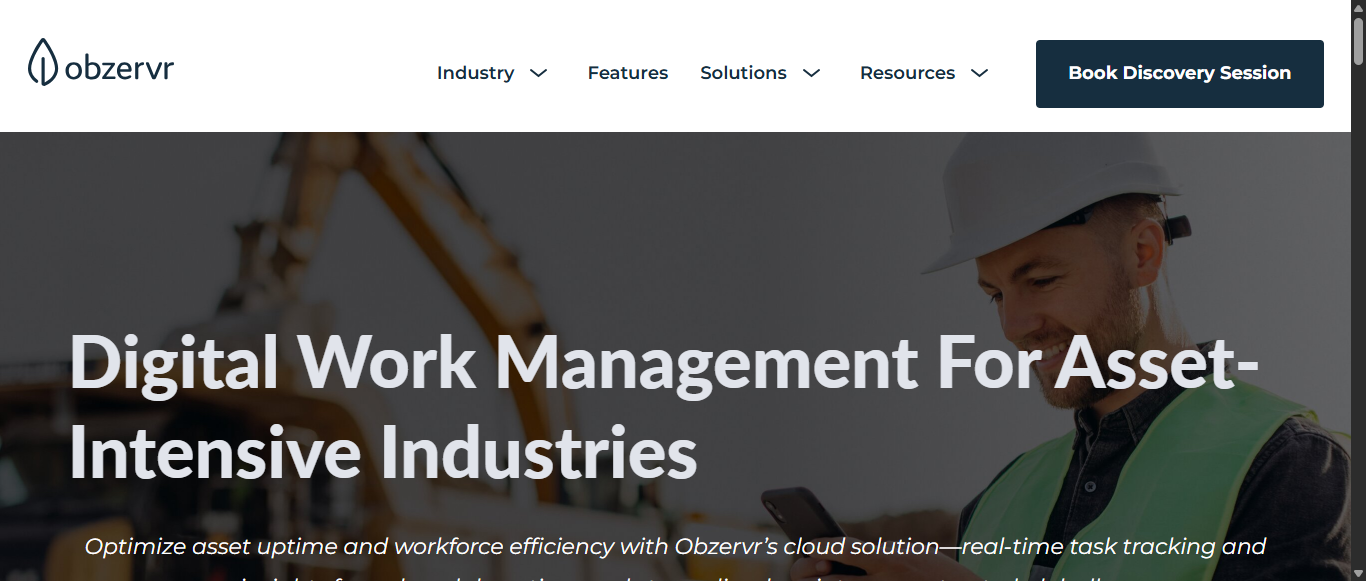
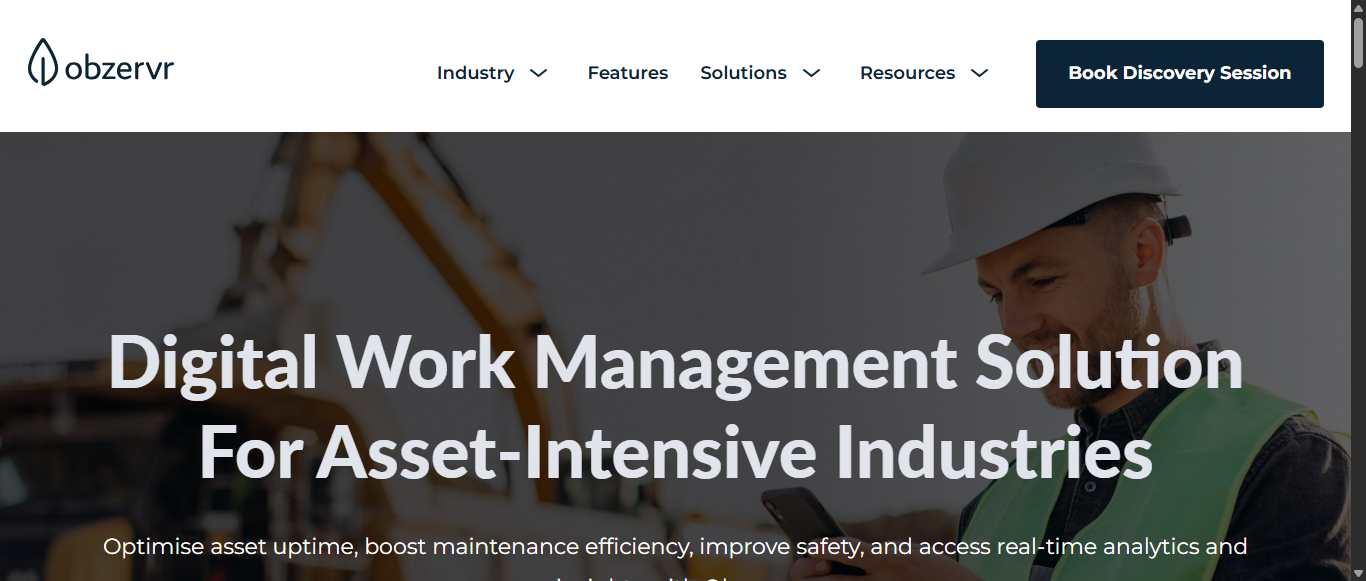
updated

diff --git a/observr_pom/test-output/index.html b/observr_pom/test-output/index.html
@@ -50,7 +50,7 @@
               <ul>
                 <li>
                   <a href="#" panel-name="test-xml-Default_suite" class="navigator-link ">
-                    <span>C:\Users\padal\AppData\Local\Temp\testng-eclipse--1256977675\testng-customsuite.xml</span>
+                    <span>C:\Users\padal\AppData\Local\Temp\testng-eclipse--429253357\testng-customsuite.xml</span>
                   </a> <!-- navigator-link  -->
                 </li>
                 <li>
@@ -208,7 +208,7 @@
         </div> <!-- panel Default_suite -->
         <div panel-name="test-xml-Default_suite" class="panel">
           <div class="main-panel-header rounded-window-top">
-            <span class="header-content">C:\Users\padal\AppData\Local\Temp\testng-eclipse--1256977675\testng-customsuite.xml</span>
+            <span class="header-content">C:\Users\padal\AppData\Local\Temp\testng-eclipse--429253357\testng-customsuite.xml</span>
           </div> <!-- main-panel-header rounded-window-top -->
           <div class="main-panel-content rounded-window-bottom">
             <pre>
@@ -261,36 +261,36 @@ data.addRows(7);
 data.setCell(0, 0, 0)
 data.setCell(0, 1, 'verifyscreenshot_maintext')
 data.setCell(0, 2, 'observr_pom.TestVerification')
-data.setCell(0, 3, 338);
+data.setCell(0, 3, 496);
 data.setCell(1, 0, 1)
-data.setCell(1, 1, 'verifyvideobtn_loadmorebtn_booksession')
+data.setCell(1, 1, 'others')
 data.setCell(1, 2, 'observr_pom.TestVerification')
-data.setCell(1, 3, 233);
+data.setCell(1, 3, 483);
 data.setCell(2, 0, 2)
-data.setCell(2, 1, 'others')
+data.setCell(2, 1, 'verifyvideobtn_loadmorebtn_booksession')
 data.setCell(2, 2, 'observr_pom.TestVerification')
-data.setCell(2, 3, 202);
+data.setCell(2, 3, 463);
 data.setCell(3, 0, 3)
 data.setCell(3, 1, 'solutions')
 data.setCell(3, 2, 'observr_pom.TestVerification')
-data.setCell(3, 3, 117);
+data.setCell(3, 3, 236);
 data.setCell(4, 0, 4)
 data.setCell(4, 1, 'industry')
 data.setCell(4, 2, 'observr_pom.TestVerification')
-data.setCell(4, 3, 113);
+data.setCell(4, 3, 194);
 data.setCell(5, 0, 5)
 data.setCell(5, 1, 'product')
 data.setCell(5, 2, 'observr_pom.TestVerification')
-data.setCell(5, 3, 101);
+data.setCell(5, 3, 167);
 data.setCell(6, 0, 6)
 data.setCell(6, 1, 'verifyTitleAndLogo')
 data.setCell(6, 2, 'observr_pom.TestVerification')
-data.setCell(6, 3, 86);
+data.setCell(6, 3, 149);
 window.suiteTableData['Default_suite']= { tableData: data, tableDiv: 'times-div-Default_suite'}
 return data;
 }
               </script>
-              <span class="suite-total-time">Total running time: 1 seconds</span>
+              <span class="suite-total-time">Total running time: 2 seconds</span>
               <div id="times-div-Default_suite">
               </div> <!-- times-div-Default_suite -->
             </div> <!-- times-div -->
@@ -323,63 +323,63 @@ return data;
               </div> <!-- configuration-class before -->
               <div class="configuration-method before">
                 <span class="method-name">navigateToURL</span>
-                <span class="method-start">4583 ms</span>
+                <span class="method-start">3786 ms</span>
               </div> <!-- configuration-method before -->
               <div class="test-method">
                 <span class="method-name">verifyTitleAndLogo</span>
-                <span class="method-start">8727 ms</span>
+                <span class="method-start">6697 ms</span>
               </div> <!-- test-method -->
               <div class="configuration-method before">
                 <span class="method-name">navigateToURL</span>
-                <span class="method-start">8822 ms</span>
+                <span class="method-start">6854 ms</span>
               </div> <!-- configuration-method before -->
               <div class="test-method">
                 <span class="method-name">verifyscreenshot_maintext</span>
-                <span class="method-start">9350 ms</span>
+                <span class="method-start">7724 ms</span>
               </div> <!-- test-method -->
               <div class="configuration-method before">
                 <span class="method-name">navigateToURL</span>
-                <span class="method-start">9690 ms</span>
+                <span class="method-start">8224 ms</span>
               </div> <!-- configuration-method before -->
               <div class="test-method">
                 <span class="method-name">verifyvideobtn_loadmorebtn_booksession</span>
-                <span class="method-start">10158 ms</span>
+                <span class="method-start">9103 ms</span>
               </div> <!-- test-method -->
               <div class="configuration-method before">
                 <span class="method-name">navigateToURL</span>
-                <span class="method-start">10391 ms</span>
+                <span class="method-start">9570 ms</span>
               </div> <!-- configuration-method before -->
               <div class="test-method">
                 <span class="method-name">industry</span>
-                <span class="method-start">11013 ms</span>
+                <span class="method-start">10235 ms</span>
               </div> <!-- test-method -->
               <div class="configuration-method before">
                 <span class="method-name">navigateToURL</span>
-                <span class="method-start">11128 ms</span>
+                <span class="method-start">10430 ms</span>
               </div> <!-- configuration-method before -->
               <div class="test-method">
                 <span class="method-name">solutions</span>
-                <span class="method-start">11720 ms</span>
+                <span class="method-start">11139 ms</span>
               </div> <!-- test-method -->
               <div class="configuration-method before">
                 <span class="method-name">navigateToURL</span>
-                <span class="method-start">11838 ms</span>
+                <span class="method-start">11377 ms</span>
               </div> <!-- configuration-method before -->
               <div class="test-method">
                 <span class="method-name">product</span>
-                <span class="method-start">12330 ms</span>
+                <span class="method-start">12067 ms</span>
               </div> <!-- test-method -->
               <div class="configuration-method before">
                 <span class="method-name">navigateToURL</span>
-                <span class="method-start">12433 ms</span>
+                <span class="method-start">12237 ms</span>
               </div> <!-- configuration-method before -->
               <div class="test-method">
                 <span class="method-name">others</span>
-                <span class="method-start">12840 ms</span>
+                <span class="method-start">12960 ms</span>
               </div> <!-- test-method -->
               <div class="configuration-class after">
                 <span class="method-name">quitbrowser</span>
-                <span class="method-start">13044 ms</span>
+                <span class="method-start">13443 ms</span>
               </div> <!-- configuration-class after -->
           </div> <!-- main-panel-content rounded-window-bottom -->
         </div> <!-- panel -->

diff --git a/observr_pom/test-output/emailable-report.html b/observr_pom/test-output/emailable-report.html
@@ -9,9 +9,9 @@
 <table>
 <tr><th>Test</th><th># Passed</th><th># Skipped</th><th># Retried</th><th># Failed</th><th>Time (ms)</th><th>Included Groups</th><th>Excluded Groups</th></tr>
 <tr><th colspan="8">Default suite</th></tr>
-<tr><td><a href="#t0">Default test</a></td><td class="num">7</td><td class="num">0</td><td class="num">0</td><td class="num">0</td><td class="num">13,757</td><td></td><td></td></tr>
+<tr><td><a href="#t0">Default test</a></td><td class="num">7</td><td class="num">0</td><td class="num">0</td><td class="num">0</td><td class="num">14,281</td><td></td><td></td></tr>
 </table>
-<table id='summary'><thead><tr><th>Class</th><th>Method</th><th>Start</th><th>Time (ms)</th></tr></thead><tbody><tr><th colspan="4">Default suite</th></tr></tbody><tbody id="t0"><tr><th colspan="4">Default test &#8212; passed</th></tr><tr class="passedeven"><td rowspan="7">observr_pom.TestVerification</td><td><a href="#m0">industry</a></td><td rowspan="1">1747644669345</td><td rowspan="1">113</td></tr><tr class="passedeven"><td><a href="#m1">others</a></td><td rowspan="1">1747644671172</td><td rowspan="1">202</td></tr><tr class="passedeven"><td><a href="#m2">product</a></td><td rowspan="1">1747644670662</td><td rowspan="1">101</td></tr><tr class="passedeven"><td><a href="#m3">solutions</a></td><td rowspan="1">1747644670052</td><td rowspan="1">117</td></tr><tr class="passedeven"><td><a href="#m4">verifyTitleAndLogo</a></td><td rowspan="1">1747644667059</td><td rowspan="1">86</td></tr><tr class="passedeven"><td><a href="#m5">verifyscreenshot_maintext</a></td><td rowspan="1">1747644667682</td><td rowspan="1">338</td></tr><tr class="passedeven"><td><a href="#m6">verifyvideobtn_loadmorebtn_booksession</a></td><td rowspan="1">1747644668490</td><td rowspan="1">233</td></tr></tbody>
+<table id='summary'><thead><tr><th>Class</th><th>Method</th><th>Start</th><th>Time (ms)</th></tr></thead><tbody><tr><th colspan="4">Default suite</th></tr></tbody><tbody id="t0"><tr><th colspan="4">Default test &#8212; passed</th></tr><tr class="passedeven"><td rowspan="7">observr_pom.TestVerification</td><td><a href="#m0">industry</a></td><td rowspan="1">1747905280378</td><td rowspan="1">194</td></tr><tr class="passedeven"><td><a href="#m1">others</a></td><td rowspan="1">1747905283103</td><td rowspan="1">483</td></tr><tr class="passedeven"><td><a href="#m2">product</a></td><td rowspan="1">1747905282210</td><td rowspan="1">167</td></tr><tr class="passedeven"><td><a href="#m3">solutions</a></td><td rowspan="1">1747905281282</td><td rowspan="1">236</td></tr><tr class="passedeven"><td><a href="#m4">verifyTitleAndLogo</a></td><td rowspan="1">1747905276840</td><td rowspan="1">149</td></tr><tr class="passedeven"><td><a href="#m5">verifyscreenshot_maintext</a></td><td rowspan="1">1747905277867</td><td rowspan="1">496</td></tr><tr class="passedeven"><td><a href="#m6">verifyvideobtn_loadmorebtn_booksession</a></td><td rowspan="1">1747905279246</td><td rowspan="1">463</td></tr></tbody>
 </table>
 <h2>Default test</h2><h3 id="m0">observr_pom.TestVerification#industry</h3><table class="result"><tr><th class="invisible"/></tr></table><p class="totop"><a href="#summary">back to summary</a></p>
 <h3 id="m1">observr_pom.TestVerification#others</h3><table class="result"><tr><th class="invisible"/></tr></table><p class="totop"><a href="#summary">back to summary</a></p>

diff --git a/observr_pom/test-output/Default suite/Default test.html b/observr_pom/test-output/Default suite/Default test.html
@@ -57,9 +57,9 @@ function toggleAllBoxes() {
 <tr>
 <td>Tests passed/Failed/Skipped:</td><td>7/0/0</td>
 </tr><tr>
-<td>Started on:</td><td>Mon May 19 14:20:58 IST 2025</td>
+<td>Started on:</td><td>Thu May 22 14:44:30 IST 2025</td>
 </tr>
-<tr><td>Total time:</td><td>13 seconds (13757 ms)</td>
+<tr><td>Total time:</td><td>14 seconds (14281 ms)</td>
 </tr><tr>
 <td>Included groups:</td><td></td>
 </tr><tr>
@@ -76,22 +76,12 @@ function toggleAllBoxes() {
 <td><b>Instance</b></td>
 </tr>
 <tr>
-<td title='observr_pom.TestVerification.verifyTitleAndLogo()'><b>verifyTitleAndLogo</b><br>Test class: observr_pom.TestVerification</td>
-<td></td>
-<td>0</td>
-<td>observr_pom.TestVerification@7a35b0f5</td></tr>
-<tr>
-<td title='observr_pom.TestVerification.industry()'><b>industry</b><br>Test class: observr_pom.TestVerification</td>
-<td></td>
-<td>0</td>
-<td>observr_pom.TestVerification@7a35b0f5</td></tr>
-<tr>
-<td title='observr_pom.TestVerification.others()'><b>others</b><br>Test class: observr_pom.TestVerification</td>
-<td></td>
-<td>0</td>
-<td>observr_pom.TestVerification@7a35b0f5</td></tr>
-<tr>
 <td title='observr_pom.TestVerification.verifyvideobtn_loadmorebtn_booksession()'><b>verifyvideobtn_loadmorebtn_booksession</b><br>Test class: observr_pom.TestVerification</td>
+<td></td>
+<td>0</td>
+<td>observr_pom.TestVerification@7a35b0f5</td></tr>
+<tr>
+<td title='observr_pom.TestVerification.verifyTitleAndLogo()'><b>verifyTitleAndLogo</b><br>Test class: observr_pom.TestVerification</td>
 <td></td>
 <td>0</td>
 <td>observr_pom.TestVerification@7a35b0f5</td></tr>
@@ -101,12 +91,22 @@ function toggleAllBoxes() {
 <td>0</td>
 <td>observr_pom.TestVerification@7a35b0f5</td></tr>
 <tr>
+<td title='observr_pom.TestVerification.solutions()'><b>solutions</b><br>Test class: observr_pom.TestVerification</td>
+<td></td>
+<td>0</td>
+<td>observr_pom.TestVerification@7a35b0f5</td></tr>
+<tr>
+<td title='observr_pom.TestVerification.others()'><b>others</b><br>Test class: observr_pom.TestVerification</td>
+<td></td>
+<td>0</td>
+<td>observr_pom.TestVerification@7a35b0f5</td></tr>
+<tr>
 <td title='observr_pom.TestVerification.product()'><b>product</b><br>Test class: observr_pom.TestVerification</td>
 <td></td>
 <td>0</td>
 <td>observr_pom.TestVerification@7a35b0f5</td></tr>
 <tr>
-<td title='observr_pom.TestVerification.solutions()'><b>solutions</b><br>Test class: observr_pom.TestVerification</td>
+<td title='observr_pom.TestVerification.industry()'><b>industry</b><br>Test class: observr_pom.TestVerification</td>
 <td></td>
 <td>0</td>
 <td>observr_pom.TestVerification@7a35b0f5</td></tr>

diff --git a/observr_pom/src/test/java/observr_pom/TestVerification.java b/observr_pom/src/test/java/observr_pom/TestVerification.java
@@ -46,7 +46,7 @@ public class TestVerification extends BaseClass {
 		// 4. main text element
 		HomePage homePage = new HomePage(driver);
 		String actualtext = homePage.getMainText();
-		String expectedtext = "Digital Work Management For Asset-Intensive Industries";
+		String expectedtext = "Digital Work Management Solution For Asset-Intensive Industries";
 
 		Assert.assertEquals(actualtext, expectedtext, "Main text do not match");
 		
@@ -62,12 +62,12 @@ public class TestVerification extends BaseClass {
 		} else {
 			System.out.println("Video button not available");
 		}
+		
+		
+Assert.assertTrue(homePage.loadmorebtnenabled(), expectedTitle);
 
-		if (homePage.getloadmorebtn().isEnabled()) {
-			System.out.println("load more btn enebled");
-		} else {
-			System.out.println("load more btn not enabled");
-		}
+
+		System.out.println("load more btn enabled");
 
 		if (homePage.getbooksession().isEnabled()) {
 			System.out.println("book session is enebled");

diff --git a/observr_pom/src/test/java/observr_pom/HomePage.java b/observr_pom/src/test/java/observr_pom/HomePage.java
@@ -33,10 +33,14 @@ public class HomePage {
     	return driver.findElement(By.xpath("/html/body/div/div[1]/div/div/a"));
     }
     public WebElement getloadmorebtn() {
-    	return driver.findElement(By.xpath("/html/body/div/div[2]/div/div[1]/div[2]/a[1]"));
+    	return driver.findElement(By.xpath("/html/body/div/div[3]/div/div[2]/a[1]"));
     }
+    
+    public boolean loadmorebtnenabled() {
+		return getloadmorebtn().isEnabled();
+	}
     public WebElement getbooksession() {
-    	return driver.findElement(By.xpath("/html/body/div/div[2]/div/div[1]/div[2]/a[2]"));
+    	return driver.findElement(By.linkText("Book Discovery Session"));
     }
     
     public WebElement mining() {
